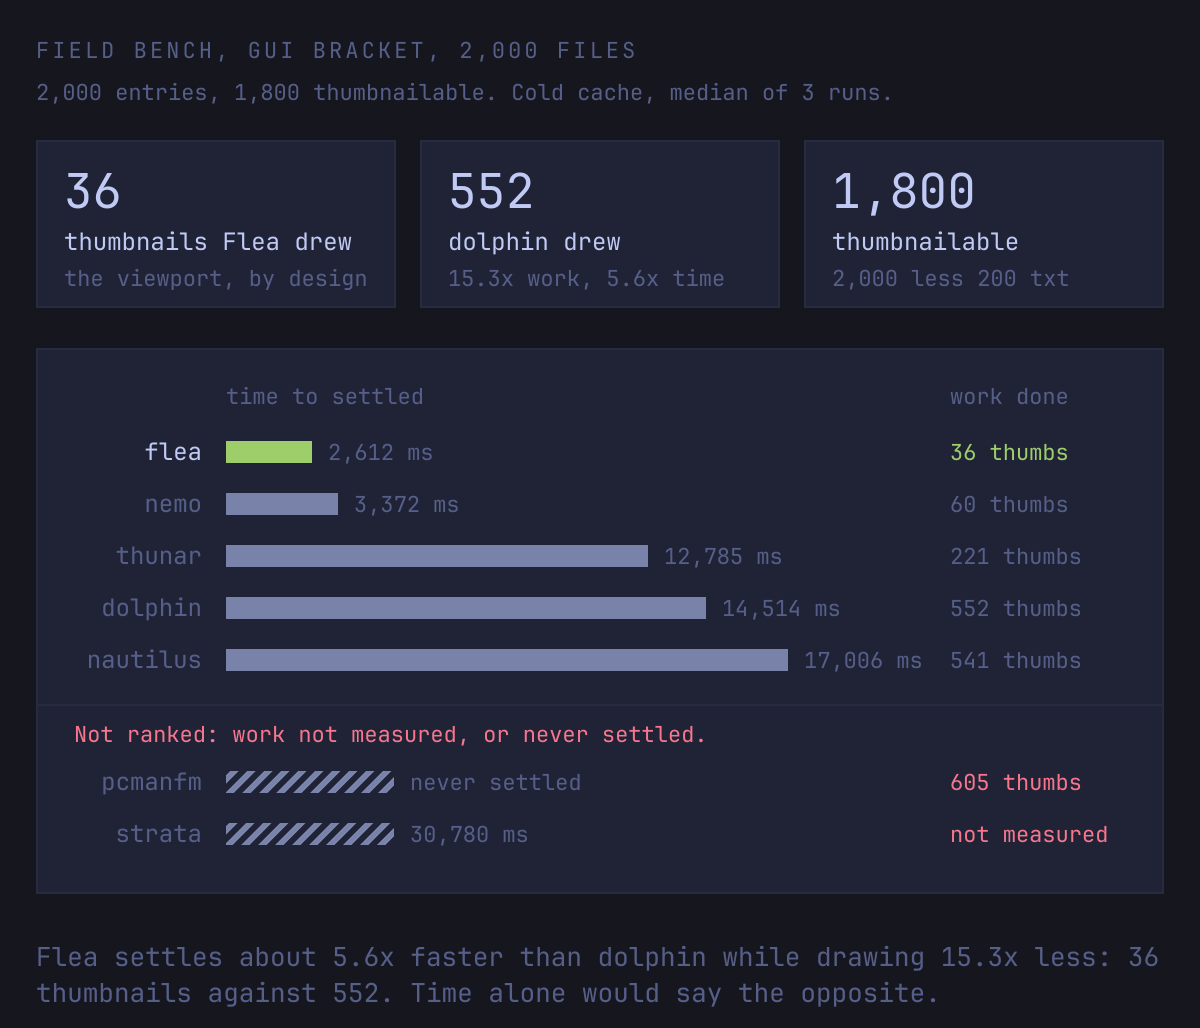
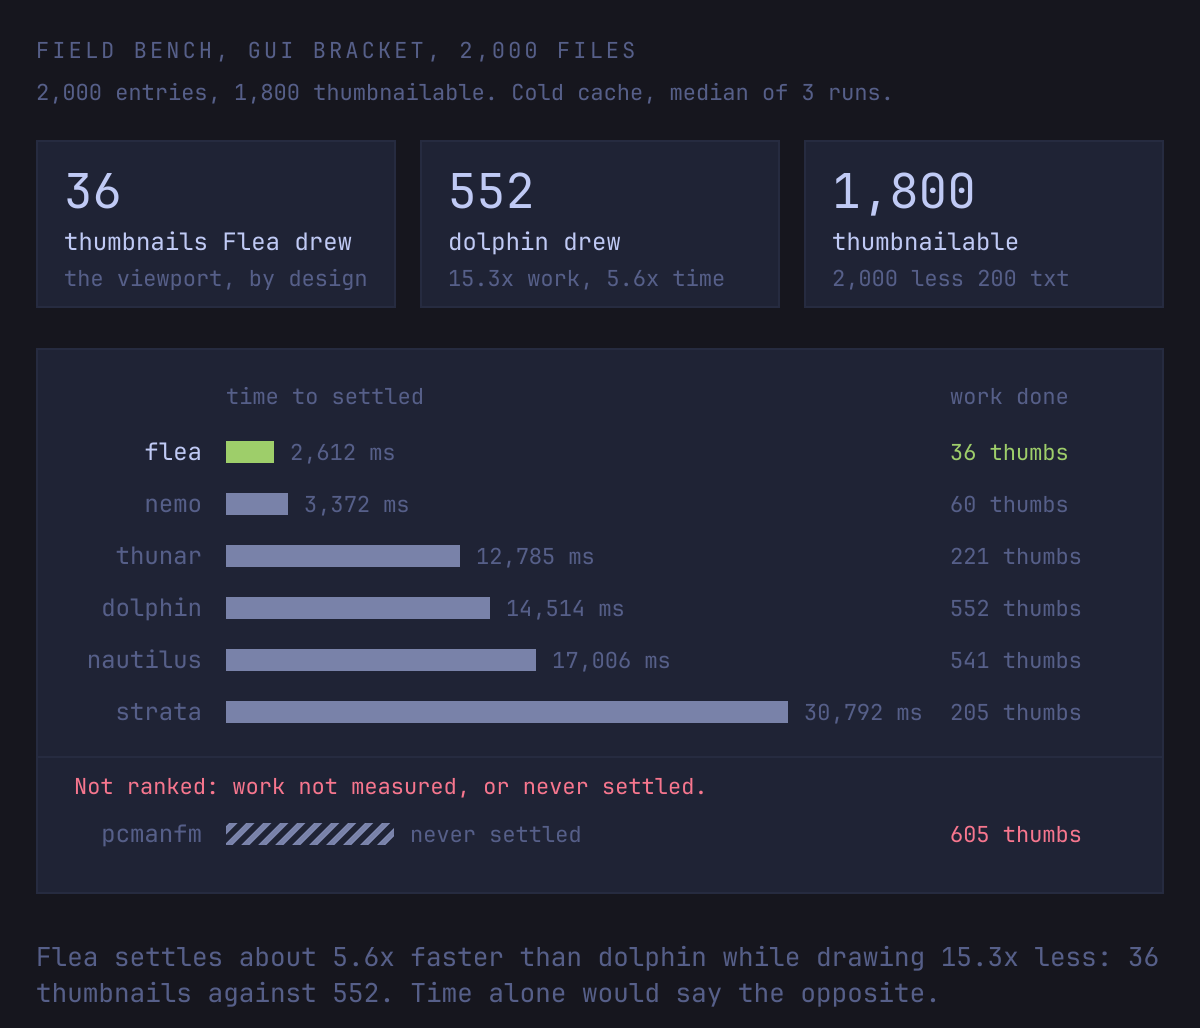
fix: strata's work is measurable, so its rows are ranked
The media bracket left strata unranked because every instrument here
counted ~/.cache/thumbnails and strata persists no thumbnail. The field
bench now measures a TRANSIENT_ID entrant by live watch across its own
runs, so thumbs_n and thumbs_by_format come from the same three runs as
settled_ms, pss_kb and cpu_tree_s rather than being borrowed from
capability.md, which is a different instrument on a different day.

Two watches: inotifywait on /tmp counts each result.png closing, and
inotifywait on the fixture names the file that earned it, because bwrap
binds the input without moving the dentry. strata thumbnails one file at
a time, so the run refuses its own numbers if the two logs differ by
more than the render in flight. All three runs: 205 against 205.

Re-run 2026-09-03, ONLY=strata, cold cache, three runs: 30,792 ms,
70.3 MiB, 1.82 s, 205 thumbnails. No other entrant was re-run. Flea
keeps settle first, now of six, and CPU first, now of seven but 1.28x
over strata where it was 3.61x over nemo; memory falls from fifth of six
to sixth of seven because strata is lighter, 70.3 MiB against 112.6.
ONLY also scopes the kill list, so a re-measure on a box in use cannot
close a window it did not start.

tests/bench.sh had pinned three checks to the committed CSV holding an
unmeasurable row; they now run against the run the suite builds itself,
and both mutations that should redden them do.

(cherry picked from commit 4d28858d1eb53c7f3859f75b8de40939ba9b2ecb)

diff --git a/docs/bench/media-rc-2044.manifest.md b/docs/bench/media-rc-2044.manifest.md
@@ -16,6 +16,43 @@ The host name and the checkout path are generalised for publication; no measured
 - TUI preview target: /home/flea-sandbox/flea-media-btrfs/photo_0.jpg
 - fixture payload assertion: PASSED, 2000 visible entries against the expected 2000
 
+## Correction, 2026-09-03: strata's three rows were re-measured
+
+**strata's rows in `media-rc-2044.csv` come from a run on 2026-09-03, not from the 2026-09-02
+batch above. No other entrant was re-run and no other number moved.**
+
+The batch reported strata as having produced nothing, and that was the instrument and not the
+entrant. strata persists no thumbnail: it renders each one in a sandboxed helper that writes
+`result.png` into `/tmp/strata-preview-<pid>-<n>`, reads it into a 256-entry, 64 MiB in-memory
+cache, and deletes the directory on drop. Every instrument in this harness counted
+`~/.cache/thumbnails`, which is structurally blind to that, so strata's work column read `0`,
+then `unmeasurable`, and its time sat below the rule unranked for the whole v0.1.0 release while
+it drew six of the eight formats offered.
+
+The re-run measures that work by a live watch attached across the same run that takes the timing,
+so `thumbs_n` and `thumbs_by_format` come out of the same three runs as `settled_ms`, `pss_kb` and
+`cpu_tree_s` rather than being borrowed from `capability.md`, which is a different instrument on a
+different day. Two watches, because neither answers both questions: an `inotifywait` on `/tmp`
+counts each `result.png` closing, and an `inotifywait` on the fixture directory names the file that
+earned it, because bwrap binds the input into the helper's namespace without moving the dentry.
+strata thumbnails one file at a time, so the two are paired, and all three runs recorded **205
+renders against exactly 205 fixture opens**.
+
+Everything else was held: `tools/flea-field-bench` with `ONLY=strata DROP_THUMBS=yes`, the same
+fixture, the same v0.6.1 build, caches dropped before each of the three runs, and the same idle
+gate. Two differences are disclosed rather than hidden.
+
+- **The kill list was scoped to strata.** The box carried two of the operator's own packaged Flea
+  processes, and a full-field run would have closed them. `ONLY` now scopes both the kill list and
+  the start-up refusal to the entrant named.
+- **Those two processes were resident for the re-run and were not for the batch.** A resident Qt
+  process can understate another process's PSS by sharing library pages. It did not here: strata's
+  PSS came out 1.7 MB **higher** than on 2026-09-02, 71964 kB against 70254, and its settle time
+  landed within 0.04 percent of it, 30792 ms against 30780.
+
+The raw cache reading survives in `thumbs_by_dir` as `fail=0;large=0`, which is a true statement
+about the cache and a false one about the entrant.
+
 ## Fixture by extension
 
 ```
@@ -208,20 +245,9 @@ failure marker the thumbnailer left. Never attempted is neither, which on this f
 means the entrant settled before reaching those names: they sort by format, clip before image
 before notes before photo. **A never-attempted count is not a capability claim.**
 
-**Correction, 2026-09-03: strata's line here read "produced nothing" and that was an instrument
-failure, not a result.** strata persists no thumbnail. It renders each one in a sandboxed helper
-that writes `result.png` into `/tmp/strata-preview-<pid>-<n>`, reads it into a 256-entry, 64 MiB
-in-memory cache, and deletes the directory on drop, so it draws thumbnails on screen and leaves
-`~/.cache/thumbnails` untouched. Every instrument in this harness counted that cache, so both this
-manifest and `capability.md` reported strata as capable of nothing for the whole v0.1.0 release
-while it drew six of the eight formats offered. Confirmed three ways on 2026-09-03: a screenshot of
-strata on this fixture showing rendered video frames in place of the type glyph it starts with, a
-live `inotifywait` over `$HOME/.cache`, `$HOME/.local/share`, the fixture, `/tmp` and
-`/run/user/1000` across a 50-second run that recorded 205 renders and **zero net new paths**, and
-strata's own source at `src/ui/thumbnail.rs`. `thumbs_n` and `thumbs_by_format` for strata now read
-`unmeasurable`; the raw cache reading survives in `thumbs_by_dir` as `fail=0;large=0`, which is a
-true statement about the cache and a false one about the entrant. **No other entrant's numbers were
-re-run or changed**, and strata's own timing columns are the ones this batch measured.
+**strata's line below is counted by the live watch described under "Correction" above, not by
+this cache.** Its instrument is named there and it is not the one the other six rows used; what
+the two have in common is that each counts thumbnails the entrant actually drew on this fixture.
 
 - flea produced mkv 6, mp4 24, webm 6; refused nothing; never attempted heic 200, jpg 600, mkv 94, mp4 376, png 200, txt 200, webm 94, webp 200
 - nautilus produced heic 13, mp4 400, png 14, webm 100, webp 14; refused nothing; never attempted heic 187, jpg 600, mkv 100, png 186, txt 200, webp 186
@@ -229,7 +255,7 @@ re-run or changed**, and strata's own timing columns are the ones this batch mea
 - pcmanfm produced mp4 400, png 105, webm 100; refused nothing; never attempted heic 200, jpg 600, mkv 100, png 95, txt 200, webp 200
 - nemo produced jpg 45, webp 15; refused nothing; never attempted heic 200, jpg 555, mkv 100, mp4 400, png 200, txt 200, webm 100, webp 185
 - dolphin produced jpg 50, mkv 84, mp4 335, webm 83; refused nothing; never attempted heic 200, jpg 550, mkv 16, mp4 65, png 200, txt 200, webm 17, webp 200
-- strata: nothing reached the thumbnail cache, so this run makes no format claim about it either way; tools/flea-bench-capability is the instrument that answers what it can draw
+- strata produced mkv 34, mp4 137, webm 34; refused nothing; never attempted heic 200, jpg 600, mkv 66, mp4 263, png 200, txt 200, webm 66, webp 200
 - yazi: a TUI previews the cursor file and fills no grid, so it writes no thumbnails at all
 - mc: a TUI previews the cursor file and fills no grid, so it writes no thumbnails at all
 - broot: a TUI previews the cursor file and fills no grid, so it writes no thumbnails at all
@@ -259,7 +285,6 @@ safe direction, and it is not a reason to leave the number out.
 
 ## Rank refusals
 
-- strata run 1: unranked: nothing reached the thumbnail cache so its work was not measured
 - yazi run 1: n/a: tui in kitty
 - mc run 1: n/a: tui in kitty
 - broot run 1: n/a: tui in kitty
@@ -268,7 +293,6 @@ safe direction, and it is not a reason to leave the number out.
 - ranger run 1: n/a: tui in kitty
 - xplr run 1: n/a: tui in kitty
 - superfile run 1: n/a: tui in kitty
-- strata run 2: unranked: nothing reached the thumbnail cache so its work was not measured
 - yazi run 2: n/a: tui in kitty
 - mc run 2: n/a: tui in kitty
 - broot run 2: n/a: tui in kitty
@@ -277,7 +301,6 @@ safe direction, and it is not a reason to leave the number out.
 - ranger run 2: n/a: tui in kitty
 - xplr run 2: n/a: tui in kitty
 - superfile run 2: n/a: tui in kitty
-- strata run 3: unranked: nothing reached the thumbnail cache so its work was not measured
 - yazi run 3: n/a: tui in kitty
 - mc run 3: n/a: tui in kitty
 - broot run 3: n/a: tui in kitty

diff --git a/README.md b/README.md
@@ -139,7 +139,7 @@ because Flea is the entrant that has one, which understates any rival whose work
 ### 2,000 files, 1,800 of them thumbnailable, cold cache
 
 <div align="center">
-  <img src="docs/images/bench-media.svg" alt="The 2,000 file GUI bracket: Flea settles in 2,612 ms having drawn 36 thumbnails, against dolphin's 14,514 ms having drawn 552, with pcmanfm and strata below the rule as unranked">
+  <img src="docs/images/bench-media.svg" alt="The 2,000 file GUI bracket: Flea settles in 2,612 ms having drawn 36 thumbnails, against strata's 30,792 ms having drawn 205 and dolphin's 14,514 ms having drawn 552, with pcmanfm below the rule as unranked">
 </div>
 
 | entrant | first window | settled listing | work done | memory, PSS | CPU, process tree | runs |
@@ -149,6 +149,7 @@ because Flea is the entrant that has one, which understates any rival whose work
 | `thunar` | 511 ms | 12,785 ms | 221 thumbnails | 40.7 MiB | 7.27 s | 3 |
 | `dolphin` | 672 ms | 14,514 ms | 552 thumbnails | 101.5 MiB | 68.11 s | 3 |
 | `nautilus` | 819 ms | 17,006 ms | 541 thumbnails | 172.6 MiB | 12.81 s | 3 |
+| `strata` | 798 ms | 30,792 ms | 205 thumbnails | 70.3 MiB | 1.82 s | 3 |
 
 **Not ranked.** An entrant whose work was not measured cannot be compared on time, and one that
 never settled has no time.
@@ -156,7 +157,14 @@ never settled has no time.
 | entrant | settled listing | work done | why it is not ranked |
 |---|---|---|---|
 | `pcmanfm` | never settled | 605 thumbnails | never settled in any of the 3 runs |
-| `strata` | 30,780 ms | not measured | nothing reached the thumbnail cache so its work was not measured |
+
+`strata`'s three rows were taken on 2026-09-03, a day after the rest of the field, and they are the
+only rows in this table that were. It persists no thumbnail, so the cache count every other row
+uses saw nothing and its time sat below the rule unranked while it was in fact drawing 205 of them.
+The re-run counts that work by a live watch attached across the same three runs that take the
+timing, so its work column and its time come from one instrument pass and not from two. The method,
+the run conditions and the two differences from the batch are in
+[`docs/bench/media-rc-2044.manifest.md`](docs/bench/media-rc-2044.manifest.md).
 
 **Flea settles first on this fixture while drawing the fewest thumbnails of any ranked entrant: 36
 against `dolphin`'s 552, a fifteenth of the work, so that first place is not a bare first place and
@@ -172,20 +180,32 @@ comparable to Flea's without its own work column beside it.
 Column by column. The denominator moves because an entrant that never settled still has a window, a
 memory and a CPU number, so `pcmanfm` is counted on three of these four:
 
-- **Time to a settled listing:** 2,612 ms, **first of five**, ahead of `nemo` at 3,372 ms, 1.29x,
+- **Time to a settled listing:** 2,612 ms, **first of six**, ahead of `nemo` at 3,372 ms, 1.29x,
   and at a fifteenth of `dolphin`'s work, as above.
-- **CPU, process tree:** 1.42 s, **first of six**, ahead of `nemo` at 5.13 s, 3.61x.
-- **Memory, PSS:** 112.6 MiB, fifth of six, behind `pcmanfm` at 40.5 MiB, 2.78x; fourth of the five
-  ranked entrants, behind `thunar` at 40.7 MiB. With Flea's backend, 114.6 MiB, and still fifth.
-- **Time to first window:** 833 ms, sixth of six, behind `pcmanfm` at 390 ms, 2.13x; fifth of the
-  five ranked entrants, behind `thunar` at 511 ms.
+- **CPU, process tree:** 1.42 s, **first of seven**, ahead of `strata` at 1.82 s, 1.28x.
+- **Memory, PSS:** 112.6 MiB, sixth of seven, behind `pcmanfm` at 40.5 MiB, 2.78x; fifth of the six
+  ranked entrants, behind `thunar` at 40.7 MiB. With Flea's backend, 114.6 MiB, and still sixth.
+- **Time to first window:** 833 ms, seventh of seven, behind `pcmanfm` at 390 ms, 2.13x; sixth of
+  the six ranked entrants, behind `thunar` at 511 ms.
+
+Ranking `strata` cost Flea a place on memory and cut the CPU lead from 3.61x over `nemo` to 1.28x
+over `strata`, which is now the nearest rival on that column by a distance: 1.82 s against Flea's
+1.42 s where the next entrant is `nemo` at 5.13 s. It is also lighter than Flea, 70.3 MiB against
+112.6, while drawing 205 thumbnails to Flea's 36. What it does not take is the settle column, where
+it is the slowest ranked entrant on this fixture at 11.8x Flea's time. Excluding it was an
+instrument failure and not a choice, and a competitor that beats us on a column is exactly the thing
+an instrument failure must not be allowed to hide, which is why its rows are here and this paragraph
+is with them.
 
 First window moved the wrong way between the earlier batch of the same day and this one: 689 ms to
-752 ms on the scale fixture, third of seven to fifth of seven, and 774 ms to 833 ms here, fifth of
-six to sixth of six. It has never been a column Flea won and it blocks nothing, but the direction
-is real and it belongs here as a number rather than as an omission. The scale move is smaller than
-the range across Flea's own three runs in that batch, 732 to 913 ms; the media move is larger than
-its own range of 795 to 835 ms, so read the media one as a move and the scale one as noise-sized.
+752 ms on the scale fixture, third of seven to fifth of seven, and 774 ms to 833 ms here. That
+earlier batch's media place is not quoted beside it: it was ranked before `strata` was measured, so
+its denominator was six where this one is seven and the two ordinals are not the same question. In
+this run Flea is seventh of seven. It has never been a column Flea won and it blocks nothing, but
+the direction is real and it belongs here as a number rather than as an omission. The scale move is
+smaller than the range across Flea's own three runs in that batch, 732 to 913 ms; the media move is
+larger than its own range of 795 to 835 ms, so read the media one as a move and the scale one as
+noise-sized.
 
 ### What each entrant can actually thumbnail
 
@@ -212,7 +232,8 @@ broken measurement rather than a capable entrant.
 `strata`'s row is the one measured by a live watch rather than by a thumbnail-cache count, because
 it is the one entrant that persists no thumbnail: it renders each one into a scratch directory it
 deletes immediately and keeps the image in memory. A cache count sees none of that, which is why
-its work column above reads **not measured** and not a zero.
+this table read "thumbnails nothing" for a whole release. The field run above now counts its work
+the same way, in its own runs.
 
 The field run's own per-format counts answer the other question, how far each entrant got before it
 stopped, and they must not be read as the table above. Flea's zero in `jpg` here is the viewport it
@@ -226,7 +247,7 @@ drew, not a format it cannot produce.
 | `pcmanfm` | 605 | `heic=0;jpg=0;mkv=0;mp4=400;png=105;txt=0;webm=100;webp=0;unknown=0` |
 | `nemo` | 60 | `heic=0;jpg=45;mkv=0;mp4=0;png=0;txt=0;webm=0;webp=15;unknown=0` |
 | `dolphin` | 552 | `heic=0;jpg=50;mkv=84;mp4=335;png=0;txt=0;webm=83;webp=0;unknown=0` |
-| `strata` | not measured | `unmeasurable` |
+| `strata` | 205 | `heic=0;jpg=0;mkv=34;mp4=137;png=0;txt=0;webm=34;webp=0;unknown=0` |
 
 ### The TUI bracket
 

diff --git a/AGENTS.md b/AGENTS.md
@@ -901,6 +901,23 @@ waits for its consumer.
   other thirteen. `n/a: tui in <terminal>` is the whole TUI bracket: a
   TUI previews the cursor file and never fills a grid, and the terminal decides whether it can draw
   an image at all, so those rows carry `n/a` in `thumbs_n` rather than a 0 that reads as slow.
+- **`tools/flea-field-bench` measures its own `TRANSIENT_ID` by the same live watch, so such a row
+  is ranked rather than refused.** Two watches, because neither answers both questions: an
+  `inotifywait` on `/tmp` counts each `result.png` closing under `TRANSIENT_PREFIX`, and an
+  `inotifywait` on the fixture directory names the file that earned it, because bwrap binds the
+  input into the helper's namespace without moving the dentry and the open still reports against
+  the fixture's own watch. Both are armed above `drop_caches`, so the walk's own cache warming is
+  dropped with everything else, and both are read at the moment `count_thumbs` would have run, so
+  the count and the timing come from one pass. strata thumbnails one file at a time, so an open and
+  the render it earns are paired: the run refuses its own numbers if the two logs differ by more
+  than the one render in flight. The cache reading still lands in `thumbs_by_dir`, and a 0 from the
+  live watch is a real 0 rather than the cache's silence.
+- **`ONLY=<entrant>` scopes the kill list as well as the run.** A full-field run closes every file
+  manager on the box by name and refuses to start beside one, which is correct for a field run and
+  wrong for re-measuring one row on a box somebody is using: the operator's own windows are not the
+  harness's to close. With `ONLY` set, both the kill list and the start-up refusal cover only that
+  entrant's own processes. A re-measured row is a row from a different day and the manifest says so
+  in its own words, the way `docs/bench/media-rc-2044.manifest.md` does for strata.
 - **Two rules for the report, which the harness cannot enforce.** The thumbnail count prints beside
   every timing number in every table, not only in the CSV: a settle time without its count is not
   citable for this field. And where two counts differ by an order of magnitude the row says so

diff --git a/docs/benchmarks.md b/docs/benchmarks.md
@@ -223,6 +223,13 @@ printf '%s\n' "<sudo password>" \
 
 # Capability pass: what each entrant can thumbnail at all, unranked and untimed.
 tools/flea-bench-capability
+
+# One entrant, re-measured. ONLY scopes the kill list to it as well, so a run on a box in use
+# cannot close a window it did not start. This is how strata's rows in media-rc-2044.csv were
+# taken, a day after the rest of the field.
+printf '%s\n' "<sudo password>" \
+  | ONLY=strata FIXTURE=/home/flea-sandbox/flea-media-btrfs EXPECT_FILES=2000 DROP_THUMBS=yes \
+    tools/flea-field-bench ~/bench/strata.csv
 ```
 
 `tools/flea-field-bench` launches the tree it measures, so it is meant to be run from a copy of
